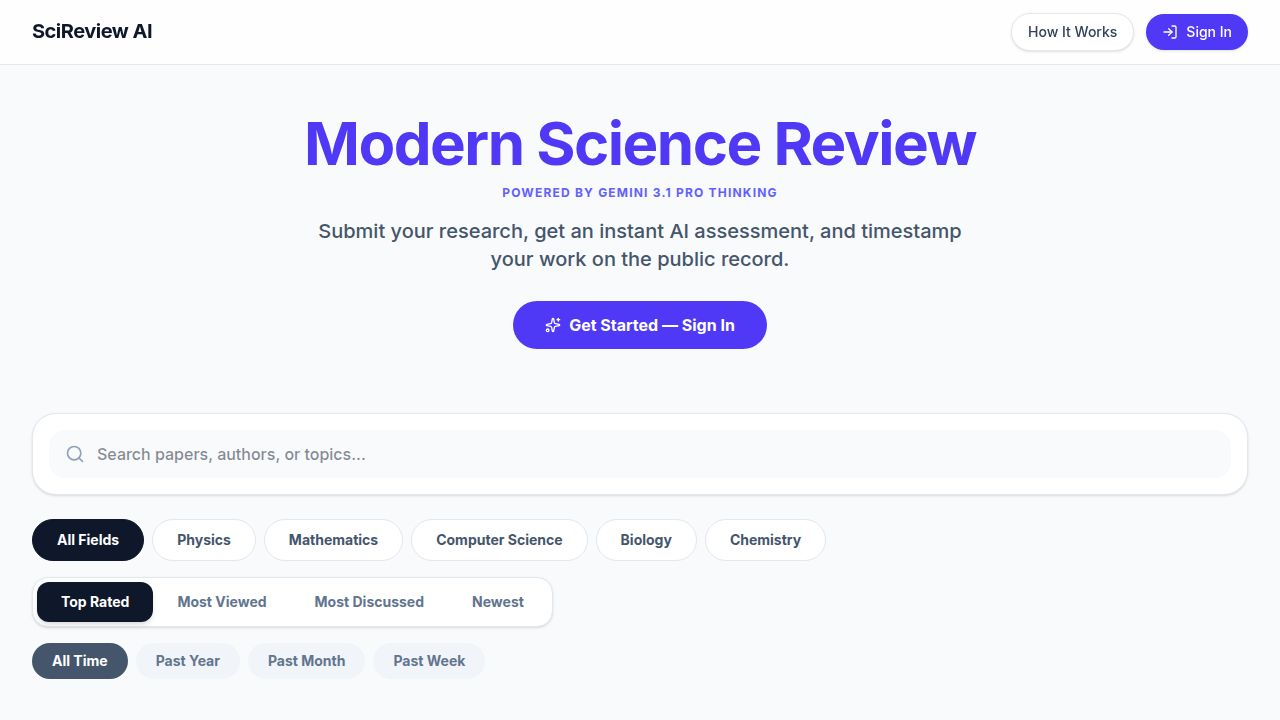
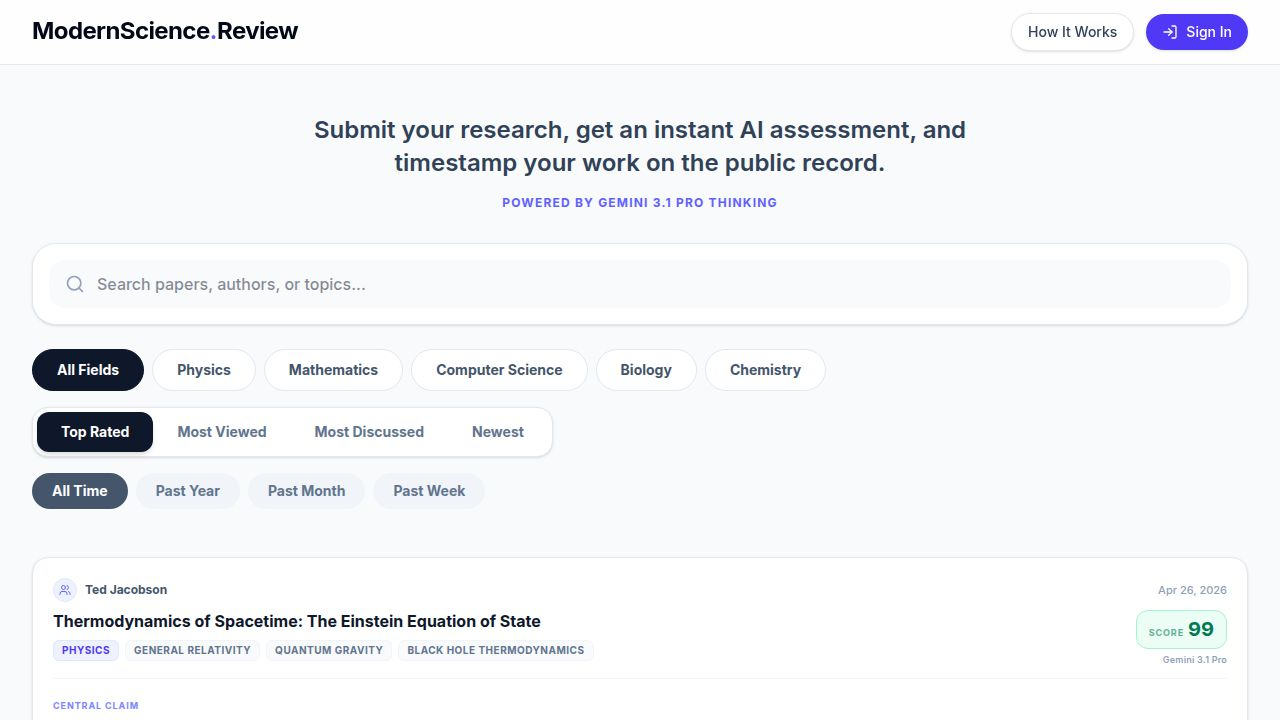
Add ability to share reviews and download all review data
Implement share functionality for individual reviews via URL and add an endpoint to export all review data as a JSON file.

Replit-Commit-Author: Agent
Replit-Commit-Session-Id: 78d5aec6-c876-4ae7-89e3-0061b56c88f1
Replit-Commit-Checkpoint-Type: full_checkpoint
Replit-Commit-Event-Id: 318edee9-6ebc-46e3-ab71-f2356806fecd
Replit-Commit-Screenshot-Url: https://storage.googleapis.com/screenshot-production-us-central1/f49b5435-a859-4104-a24d-15d63b991c2c/78d5aec6-c876-4ae7-89e3-0061b56c88f1/JN6ssLA
Replit-Helium-Checkpoint-Created: true

diff --git a/artifacts/scireview/src/App.tsx b/artifacts/scireview/src/App.tsx
@@ -1,6 +1,6 @@
 import React, { useState, useEffect, useCallback } from 'react';
 import { motion, AnimatePresence } from 'framer-motion';
-import { BookOpen, Sparkles, Search, ArrowLeft, Heart, Clock, User, Share2, AlertCircle, Loader2, Trash2, CheckSquare, XSquare, ExternalLink } from 'lucide-react';
+import { BookOpen, Sparkles, Search, ArrowLeft, Heart, Clock, User, Share2, AlertCircle, Loader2, Trash2, CheckSquare, XSquare, ExternalLink, Check } from 'lucide-react';
 import LatexText from './components/LatexText';
 import { formatDistanceToNow } from 'date-fns';
 import { useAuth, AuthUser } from '@workspace/replit-auth-web';
@@ -100,6 +100,7 @@ export default function App() {
   const [error, setError] = useState<string | null>(null);
 
   const isAdmin = !!(user && ADMIN_EMAIL && user.email === ADMIN_EMAIL);
+  const [shareCopied, setShareCopied] = useState(false);
   const [searchQuery, setSearchQuery] = useState('');
   const [selectedField, setSelectedField] = useState('All Fields');
   const [selectedSubfield, setSelectedSubfield] = useState('All Subfields');
@@ -124,6 +125,24 @@ export default function App() {
       setUserLikes(new Set(data.likes || []));
     } catch {}
   }, [user]);
+
+  // Read ?paper=<id> from URL on first load
+  useEffect(() => {
+    const params = new URLSearchParams(window.location.search);
+    const paperId = params.get('paper');
+    if (paperId) setSelectedPaperId(paperId);
+  }, []);
+
+  // Sync URL when selected paper changes
+  useEffect(() => {
+    const url = new URL(window.location.href);
+    if (selectedPaperId) {
+      url.searchParams.set('paper', selectedPaperId);
+    } else {
+      url.searchParams.delete('paper');
+    }
+    window.history.replaceState({}, '', url.toString());
+  }, [selectedPaperId]);
 
   useEffect(() => { fetchPapers(); }, [fetchPapers]);
 
@@ -253,6 +272,31 @@ export default function App() {
     }
   };
 
+  const handleShare = () => {
+    if (!selectedPaperId) return;
+    const url = `${window.location.origin}${window.location.pathname}?paper=${selectedPaperId}`;
+    navigator.clipboard.writeText(url).then(() => {
+      setShareCopied(true);
+      setTimeout(() => setShareCopied(false), 2000);
+    });
+  };
+
+  const handleDownloadAll = async () => {
+    try {
+      const res = await fetch('/api/papers/export', { credentials: 'include' });
+      const data = await res.json();
+      const blob = new Blob([JSON.stringify(data, null, 2)], { type: 'application/json' });
+      const url = URL.createObjectURL(blob);
+      const a = document.createElement('a');
+      a.href = url;
+      a.download = `scireview-export-${new Date().toISOString().slice(0, 10)}.json`;
+      a.click();
+      URL.revokeObjectURL(url);
+    } catch (err: any) {
+      window.alert(`Export failed: ${err.message}`);
+    }
+  };
+
   const handleDeleteAll = async () => {
     if (!isAdmin) return;
     const count = papers.length;
@@ -345,6 +389,7 @@ export default function App() {
         onDeleteAll={handleDeleteAll}
         onPromptAnalysis={() => setShowPromptAnalysis(true)}
         onNewPrompt={() => setShowNewPrompt(true)}
+        onDownloadAll={handleDownloadAll}
       />
 
       <main className="max-w-7xl mx-auto px-4 sm:px-6 lg:px-8 py-12">
@@ -547,8 +592,13 @@ export default function App() {
                           </a>
                         )}
 
-                        <button className="p-3 bg-white border border-slate-200 rounded-2xl hover:bg-slate-50 transition-colors shadow-sm">
-                          <Share2 className="w-5 h-5 text-slate-600" />
+                        <button
+                          onClick={handleShare}
+                          title="Copy link to this review"
+                          className={`flex items-center gap-2 px-4 py-3 rounded-2xl font-bold transition-colors shadow-sm border text-sm ${shareCopied ? 'bg-emerald-50 border-emerald-200 text-emerald-600' : 'bg-white border-slate-200 text-slate-600 hover:bg-slate-50'}`}
+                        >
+                          {shareCopied ? <Check className="w-4 h-4" /> : <Share2 className="w-4 h-4" />}
+                          {shareCopied ? 'Copied!' : 'Share'}
                         </button>
                         {user && (user.id === selectedPaper.authorId || user.email === ADMIN_EMAIL) && (
                           <button onClick={() => handleDeletePaper(selectedPaper.id)} className="p-3 bg-rose-50 border border-rose-100 rounded-2xl hover:bg-rose-100 transition-colors shadow-sm">

diff --git a/artifacts/api-server/src/routes/papers.ts b/artifacts/api-server/src/routes/papers.ts
@@ -368,6 +368,65 @@ router.get("/papers/system-prompt", (_req, res) => {
   res.json({ prompt: REVIEW_SYSTEM_INSTRUCTION });
 });
 
+// GET /api/papers/export — download all reviews as structured JSON (model output only)
+router.get("/papers/export", async (_req, res) => {
+  try {
+    const papers = await db.select().from(papersTable).orderBy(desc(papersTable.createdAt));
+    const reviews = await db.select().from(reviewsTable);
+    const reviewMap = new Map(reviews.map(r => [r.paperId, r]));
+
+    const exported = papers.map(p => {
+      const r = reviewMap.get(p.id);
+      return {
+        paper: {
+          id: p.id,
+          title: p.title,
+          paperAuthors: p.paperAuthors,
+          field: p.field,
+          subfields: p.subfields,
+          createdAt: p.createdAt,
+          pdfUrl: p.pdfUrl,
+        },
+        review: r ? {
+          modelName: r.modelName,
+          overallIntrinsicScore: r.overallIntrinsicScore,
+          intrinsicScientificMeritScore: r.intrinsicScientificMeritScore,
+          explanatoryTargetBreadthScore: r.explanatoryTargetBreadthScore,
+          theorySpaceBreadthScore: r.theorySpaceBreadthScore,
+          breadthOfImpactScore: r.breadthOfImpactScore,
+          bestClassification: r.bestClassification,
+          centralClaim: r.centralClaim,
+          summary: r.summary,
+          correctness: r.correctness,
+          novelty: r.novelty,
+          noveltyConfidence: r.noveltyConfidence,
+          internalTechnicalTraction: r.internalTechnicalTraction,
+          economy: r.economy,
+          scopeDepth: r.scopeDepth,
+          unifyingPower: r.unifyingPower,
+          explanatoryTargetBreadth: r.explanatoryTargetBreadth,
+          theorySpaceBreadth: r.theorySpaceBreadth,
+          establishedResults: r.establishedResults,
+          interpretiveClaims: r.interpretiveClaims,
+          speculativeClaims: r.speculativeClaims,
+          strongestCaseForImportance: r.strongestCaseForImportance,
+          strongestObjection: r.strongestObjection,
+          decisiveCheck: r.decisiveCheck,
+          finalJudgment: r.finalJudgment,
+          relatedWork: r.relatedWork,
+          coverageLedger: r.coverageLedgerJson ? JSON.parse(r.coverageLedgerJson) : null,
+          createdAt: r.createdAt,
+        } : null,
+      };
+    });
+
+    res.json({ exportedAt: new Date().toISOString(), systemPrompt: REVIEW_SYSTEM_INSTRUCTION, count: exported.length, papers: exported });
+  } catch (err: any) {
+    logger.error({ err }, "Error exporting papers");
+    res.status(500).json({ error: err.message });
+  }
+});
+
 // GET /api/papers — list all papers
 router.get("/papers", async (req, res) => {
   try {

diff --git a/artifacts/scireview/src/components/PaperCard.tsx b/artifacts/scireview/src/components/PaperCard.tsx
@@ -1,6 +1,6 @@
-import React from 'react';
+import React, { useState } from 'react';
 import { motion } from 'framer-motion';
-import { Heart, MessageSquare, Users, ChevronRight, Check } from 'lucide-react';
+import { Heart, MessageSquare, Users, ChevronRight, Check, Share2 } from 'lucide-react';
 import { format } from 'date-fns';
 import { Paper } from '../types';
 import LatexText from './LatexText';
@@ -16,6 +16,16 @@ interface PaperCardProps {
 }
 
 export default function PaperCard({ paper, onClick, onLike, isLiked, isSelectable, isSelected, onSelect }: PaperCardProps) {
+  const [copied, setCopied] = useState(false);
+
+  const handleShare = (e: React.MouseEvent) => {
+    e.stopPropagation();
+    const url = `${window.location.origin}${window.location.pathname}?paper=${paper.id}`;
+    navigator.clipboard.writeText(url).then(() => {
+      setCopied(true);
+      setTimeout(() => setCopied(false), 2000);
+    });
+  };
   const displayAuthors = paper.paperAuthors || paper.authorName;
   const centralClaim = paper.reviewCentralClaim;
   const finalJudgment = paper.reviewFinalJudgment;
@@ -145,8 +155,18 @@ export default function PaperCard({ paper, onClick, onLike, isLiked, isSelectabl
           </div>
 
           {!isSelectable && (
-            <div className="text-indigo-600 font-bold text-sm flex items-center gap-1 group-hover/card:translate-x-1 transition-transform">
-              Read Review <ChevronRight className="w-4 h-4" />
+            <div className="flex items-center gap-3">
+              <button
+                onClick={handleShare}
+                className={`flex items-center gap-1.5 text-sm font-medium transition-colors ${copied ? 'text-emerald-500' : 'text-slate-400 hover:text-indigo-500'}`}
+                title="Copy link to this review"
+              >
+                {copied ? <Check className="w-4 h-4" /> : <Share2 className="w-4 h-4" />}
+                {copied ? 'Copied!' : 'Share'}
+              </button>
+              <div className="text-indigo-600 font-bold text-sm flex items-center gap-1 group-hover/card:translate-x-1 transition-transform">
+                Read Review <ChevronRight className="w-4 h-4" />
+              </div>
             </div>
           )}
         </div>

diff --git a/artifacts/scireview/src/components/Navbar.tsx b/artifacts/scireview/src/components/Navbar.tsx
@@ -1,6 +1,6 @@
 import React from 'react';
 import { motion } from 'framer-motion';
-import { LogIn, LogOut, PlusCircle, User, BarChart2, Trash2, Wand2 } from 'lucide-react';
+import { LogIn, LogOut, PlusCircle, User, BarChart2, Trash2, Wand2, Download } from 'lucide-react';
 
 interface NavbarProps {
   user: any;
@@ -12,9 +12,10 @@ interface NavbarProps {
   onDeleteAll: () => void;
   onPromptAnalysis: () => void;
   onNewPrompt: () => void;
+  onDownloadAll: () => void;
 }
 
-export default function Navbar({ user, isAdmin, onLogin, onLogout, onNewPaper, onHowItWorks, onDeleteAll, onPromptAnalysis, onNewPrompt }: NavbarProps) {
+export default function Navbar({ user, isAdmin, onLogin, onLogout, onNewPaper, onHowItWorks, onDeleteAll, onPromptAnalysis, onNewPrompt, onDownloadAll }: NavbarProps) {
   return (
     <nav className="sticky top-0 z-50 bg-white/80 backdrop-blur-md border-b border-slate-200">
       <div className="max-w-7xl mx-auto px-4 sm:px-6 lg:px-8">
@@ -47,6 +48,16 @@ export default function Navbar({ user, isAdmin, onLogin, onLogout, onNewPaper, o
                     >
                       <BarChart2 className="w-4 h-4" />
                       <span className="hidden sm:inline">Analysis</span>
+                    </motion.button>
+                    <motion.button
+                      whileHover={{ scale: 1.02 }}
+                      whileTap={{ scale: 0.98 }}
+                      onClick={onDownloadAll}
+                      title="Download All Reviews as JSON"
+                      className="flex items-center gap-2 bg-emerald-50 border border-emerald-200 text-emerald-700 px-3 py-2 rounded-full font-medium text-sm shadow-sm hover:bg-emerald-100 transition-colors"
+                    >
+                      <Download className="w-4 h-4" />
+                      <span className="hidden sm:inline">Export</span>
                     </motion.button>
                     <motion.button
                       whileHover={{ scale: 1.02 }}
